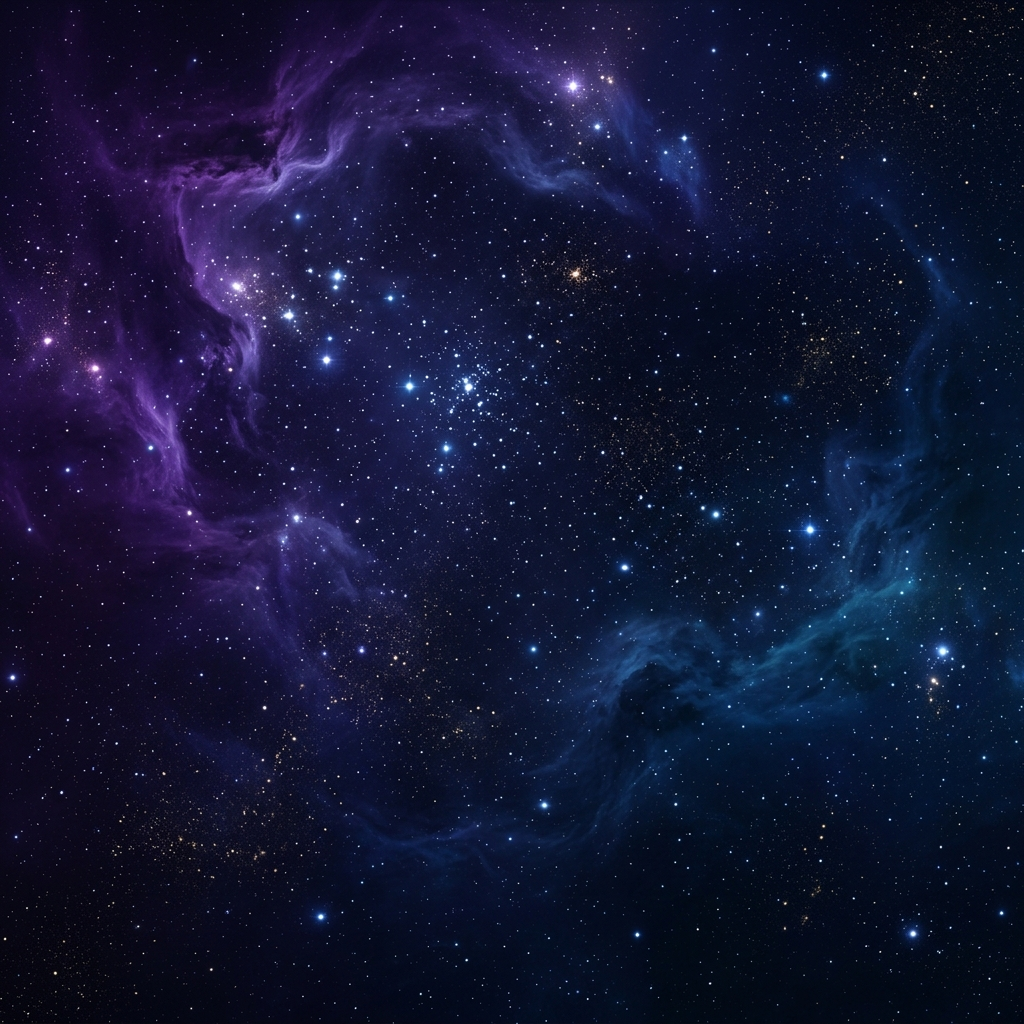
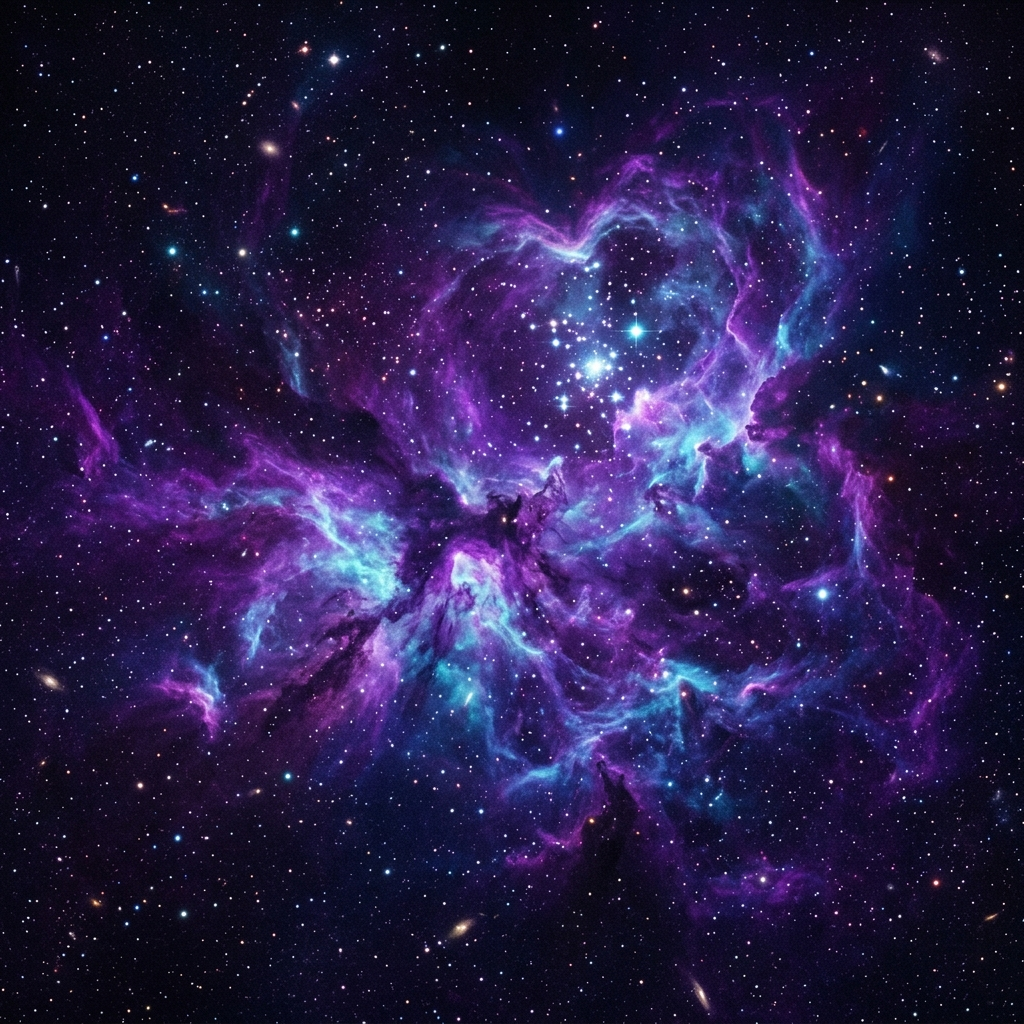
Auto-sync Agentic OS: 2026-04-21 13:06

diff --git a/projects/Agentic_OS_React/src/components/layout/LandingPage.tsx b/projects/Agentic_OS_React/src/components/layout/LandingPage.tsx
@@ -6,6 +6,8 @@ import { SplineScene } from '@/components/ui/spline-scene';
 import { Spotlight } from '@/components/ui/spotlight';
 import { useScroll, useTransform, motion } from 'framer-motion';
 import { ContainerScroll } from '@/components/ui/container-scroll-animation';
+import { CursorDrivenParticleTypography } from '@/components/ui/cursor-driven-particles-typography';
+import cosmicBg from '../../assets/cosmic_bg.png';
 
 export function LandingPage() {
   const { scrollYProgress } = useScroll();
@@ -36,7 +38,19 @@ export function LandingPage() {
     
     
     
-    <div className="cosmic-flow-container relative overflow-hidden">
+    <div 
+      className="cosmic-flow-container relative overflow-visible" 
+      style={{ 
+        backgroundImage: `url(${cosmicBg})`,
+        backgroundAttachment: 'fixed',
+        backgroundSize: 'cover',
+        backgroundPosition: 'center center',
+        minHeight: '100vh',
+        width: '100%',
+        zIndex: 50,
+        display: 'block'
+      }}
+    >
       <div className="cosmic-frosted-mask" />
       
       <section className="hero-section relative" id="visao">
@@ -69,8 +83,16 @@ export function LandingPage() {
               </div>
             </div>
 
-            {/* Lado direito — robô 3D interativo */}
-            <div className="hidden md:block flex-1 relative">
+            {/* Lado direito — robô 3D interativo com escala aumentada e mergulho no fade */}
+            <div 
+              className="hidden md:block flex-1 relative"
+              style={{ 
+                maskImage: 'linear-gradient(to bottom, black 75%, transparent 95%)',
+                WebkitMaskImage: 'linear-gradient(to bottom, black 75%, transparent 95%)',
+                transform: 'scale(1.25) translateY(80px) translateX(20px)',
+                transformOrigin: 'center center'
+              }}
+            >
               <SplineScene
                 scene="https://prod.spline.design/kZDDjO5HuC9GJUM2/scene.splinecode"
                 className="w-full h-full"
@@ -78,11 +100,14 @@ export function LandingPage() {
             </div>
           </div>
 
-          {/* MÁSCARA DE TRANSIÇÃO PARA A PRÓXIMA SEÇÃO */}
-          <div className="absolute bottom-0 left-0 w-full h-[30vh] bg-gradient-to-t from-[#030305] via-[#030305]/80 to-transparent z-20 pointer-events-none" />
+          {/* MÁSCARA DE TRANSIÇÃO ESCURA — HERO PARA MANIFESTO */}
+          <div className="absolute bottom-0 left-0 w-full h-[40vh] bg-gradient-to-t from-[#030305] via-[#030305]/60 to-transparent z-20 pointer-events-none" />
       </section>
       
-      <section className="manifesto-section !bg-transparent">
+      <section className="manifesto-section !bg-transparent relative">
+          {/* MÁSCARA DE TRANSIÇÃO ESCURA — ENTRADA DO MANIFESTO */}
+          <div className="absolute top-0 left-0 w-full h-[30vh] bg-gradient-to-b from-[#030305] to-transparent z-20 pointer-events-none" />
+          
           <div className="manifesto-wrapper">
               <blockquote className="manifesto-text reveal-word" id="manifesto">
                   "Todo profissional que trabalha com IA hoje está no mesmo ponto que eu estava há meses, 
@@ -93,6 +118,9 @@ export function LandingPage() {
               </blockquote>
           </div>
       </section>
+
+      {/* MÁSCARA DE TRANSIÇÃO ESCURA — FINALIZAÇÃO DO COSMOS */}
+      <div className="absolute bottom-0 left-0 w-full h-[30vh] bg-gradient-to-t from-[#030305] via-[#030305]/80 to-transparent z-20 pointer-events-none" />
     </div>
 
     
@@ -292,6 +320,22 @@ export function LandingPage() {
                     <span>Roteamento Inteligente Automático via {" "}<AgenticHoverLink previewKey="orchestrator">Orquestrador</AgenticHoverLink>{" "}</span>
                 </div>
             </div>
+        </div>
+    </section>
+
+    {/* ASSINATURA REPOSICIONADA — TRANSIÇÃO ULTRA-COMPACTA (ZERO GAP) */}
+    <section className="relative overflow-hidden bg-transparent py-0 flex items-center justify-center min-h-[160px]">
+        <div className="w-full max-w-7xl">
+            <CursorDrivenParticleTypography 
+                text="PEDRO GALVÃO" 
+                fontSize={160}
+                color="#ffffff"
+                particleDensity={5}
+                particleSize={1.5}
+                dispersionStrength={25}
+                returnSpeed={0.12}
+                className="opacity-100"
+            />
         </div>
     </section>
 

diff --git a/projects/Agentic_OS_React/src/legacy.css b/projects/Agentic_OS_React/src/legacy.css
@@ -317,13 +317,13 @@ h2.section-title .reveal-text { display: block; }
 /* ============================================ */
 .hero-section {
     position: relative;
-    min-height: 100vh;
+    min-height: 90vh; /* Reduzido de 100vh */
     display: flex;
     align-items: center;
     justify-content: center;
     flex-direction: column;
     text-align: center;
-    padding: 100px 32px 100px;
+    padding: 60px 32px 80px; /* Reduzido de 100px */
     z-index: 2;
 }
 
@@ -415,21 +415,40 @@ h2.section-title .reveal-text { display: block; }
 /*  COSMIC FLOW BACKGROUND                      */
 /* ============================================ */
 .cosmic-flow-container {
-    background-image: url('./assets/cosmic_bg.png');
-    background-size: cover;
-    background-position: center;
-    background-repeat: no-repeat;
-    /* Hero e Manifesto continuam daqui */
+    position: relative;
+    width: 100%;
+    /* Estilos base movidos para Inline no React para garantir carregamento */
+    overflow: visible;
 }
 
 .cosmic-frosted-mask {
     position: absolute;
     inset: 0;
     pointer-events: none;
-    z-index: 1;
-    background: radial-gradient(circle at 50% 50%, rgba(3, 3, 5, 0.1) 0%, rgba(3, 3, 5, 0.8) 100%);
-    -webkit-backdrop-filter: blur(60px);
-    backdrop-filter: blur(60px);
+    z-index: -1; 
+    /* Fade Atmosférico: Muito leve na Hero, sutil no Manifesto */
+    background: linear-gradient(
+        to bottom,
+        rgba(3, 3, 5, 0) 0%,
+        rgba(3, 3, 5, 0.1) 40%,
+        rgba(3, 3, 5, 0.25) 70%,
+        rgba(3, 3, 5, 0.4) 100%
+    );
+    /* Desfoque base sutil para dar continuidade */
+    -webkit-backdrop-filter: blur(2px);
+    backdrop-filter: blur(2px);
+}
+
+/* Intensificador Fosco do Manifesto: Mais desfoque, menos cor preta */
+.manifesto-section::before {
+    content: "";
+    position: absolute;
+    inset: 0;
+    z-index: -1;
+    /* Efeito de Vidro Jateado que permite ver as cores ao fundo */
+    -webkit-backdrop-filter: blur(18px);
+    backdrop-filter: blur(18px);
+    background: rgba(3, 3, 5, 0.2); 
 }
 
 /* ============================================ */
@@ -437,10 +456,12 @@ h2.section-title .reveal-text { display: block; }
 /* ============================================ */
 .manifesto-section {
     position: relative;
-    padding: 180px 32px;
+    min-height: 70vh; /* Reduzido para aproximar os módulos */
+    padding: 80px 32px; /* Reduzido de 180px */
     display: flex;
     justify-content: center;
     overflow: hidden;
+    background: transparent !important;
 }
 
 .manifesto-wrapper { 
@@ -449,11 +470,6 @@ h2.section-title .reveal-text { display: block; }
     z-index: 10;
 }
 
-.manifesto-wrapper { 
-    max-width: 850px; 
-    position: relative;
-    z-index: 10;
-}
 .manifesto-text {
     font-size: clamp(1.3rem, 2.5vw, 1.8rem);
     font-weight: 400;
@@ -463,6 +479,7 @@ h2.section-title .reveal-text { display: block; }
     padding: 0;
     font-style: normal;
 }
+
 .manifesto-text strong {
     color: var(--text);
     font-weight: 600;
@@ -497,7 +514,7 @@ h2.section-title .reveal-text { display: block; }
 .metrics-section {
     max-width: 1300px;
     margin: 0 auto;
-    padding: 100px 32px;
+    padding: 60px 32px; /* Reduzido de 100px */
 }
 .metrics-header {
     margin-bottom: 60px;
@@ -541,7 +558,7 @@ h2.section-title .reveal-text { display: block; }
 .architecture-section {
     max-width: 1300px;
     margin: 0 auto;
-    padding: 120px 32px;
+    padding: 80px 32px; /* Reduzido de 120px */
 }
 .arch-header {
     margin-bottom: 80px;
@@ -679,7 +696,7 @@ h2.section-title .reveal-text { display: block; }
 .hybrid-section {
     max-width: 1300px;
     margin: 0 auto;
-    padding: 120px 32px;
+    padding: 80px 32px 0; /* Zerei padding inferior */
 }
 .hybrid-header { margin-bottom: 60px; }
 .hybrid-grid {
@@ -770,7 +787,7 @@ h2.section-title .reveal-text { display: block; }
 .terminal-section {
     width: 100%;
     margin: 0;
-    padding: 100px 32px;
+    padding: 0 32px 60px; /* Zerei padding superior */
 }
 .terminal-header-info { margin-bottom: 40px; }
 .terminal-window { overflow: hidden; }

diff --git a/projects/Agentic_OS_React/src/App.tsx b/projects/Agentic_OS_React/src/App.tsx
@@ -124,13 +124,14 @@ function App() {
           {/* Layer 1.5: Stars Background with Warp Control */}
           <StarsBackground density={800} opacity={0.4} warpSpeed={warpSpeed} />
 
-          {/* Layer 2: Neural Particles (Reduced for performance) */}
-          <div className="absolute inset-0 z-10 opacity-30 mix-blend-screen">
+          {/* Layer 2: Neural Particles (Enhanced for visual depth) */}
+          <div className="absolute inset-0 z-10 opacity-50 mix-blend-screen">
             <NeuralBackground 
               color="#6e56ff" 
-              trailOpacity={0.05} 
-              particleCount={80} 
-              speed={0.2} 
+              trailOpacity={0.04} 
+              particleCount={600} 
+              particleSize={2.0}
+              speed={0.3} 
             />
           </div>
         </div>

diff --git a/projects/Agentic_OS_React/src/components/ui/container-scroll-animation.tsx b/projects/Agentic_OS_React/src/components/ui/container-scroll-animation.tsx
@@ -39,10 +39,10 @@ export const ContainerScroll = ({
 
   return (
     <div
-      className="h-[60rem] md:h-[80rem] flex items-center justify-center relative p-2 md:p-20"
+      className="flex items-start justify-center relative p-0 w-full"
       ref={containerRef}
     >
-      <div className="py-10 md:py-40 w-full relative [perspective:1000px]">
+      <div className="pt-0 w-full relative [perspective:1000px]">
         <Header translate={translate} titleComponent={titleComponent} />
         <Card rotate={rotate} translate={translate} scale={scale}>
           {children}

diff --git a/projects/Agentic_OS_React/src/components/ui/flow-field-background.tsx b/projects/Agentic_OS_React/src/components/ui/flow-field-background.tsx
@@ -6,14 +6,16 @@ interface NeuralBackgroundProps {
   color?: string;
   trailOpacity?: number;
   particleCount?: number;
+  particleSize?: number;
   speed?: number;
 }
 
 export default function NeuralBackground({
   className,
   color = "#6366f1",
-  trailOpacity = 0.15,
-  particleCount = 600,
+  trailOpacity = 0.08,
+  particleCount = 1000,
+  particleSize = 1.8,
   speed = 1,
 }: NeuralBackgroundProps) {
   const canvasRef = useRef<HTMLCanvasElement>(null);

diff --git a/projects/Agentic_OS_React/src/components/ui/cursor-driven-particles-typography.tsx b/projects/Agentic_OS_React/src/components/ui/cursor-driven-particles-typography.tsx
@@ -248,7 +248,7 @@ export function CursorDrivenParticleTypography({
     <div
       ref={containerRef}
       className={cn(
-        "w-full h-full min-h-[400px] flex items-center justify-center relative touch-none",
+        "w-full h-full flex items-center justify-center relative touch-none",
         className
       )}
     >

diff --git a/brain/Context_Maps/Agentic_OS_Premium_Frontend.md b/brain/Context_Maps/Agentic_OS_Premium_Frontend.md
@@ -32,13 +32,15 @@ Construir a presença web premium (Landing Page) para o Agentic OS, demonstrando
 - [x] Upgrade do Background Estelar para 2400 estrelas com efeito de profundidade e parallax via mouse.
 - [x] Criação do `FloatingProfile` estilo "baseclub" com drag-and-drop e orbital-physics.
 - [x] Resolução de bugs críticos de hidratação (div in p) e exportação (WSoD fix).
+- [x] Implementação do Zero Gap Protocol (layout ultra-compacto eliminando dead space vertical).
+- [x] Otimização de Densidade Visual (Neural Background com 600 partículas e tamanho 2.0).
 - [ ] Deploy para produção.
 
 ### 💡 Novas Lições
+- **Zero Gap Protocol (Layout Densidade):** Para atingir uma estética premium tipo Apple, deve-se combater o "dead space". Componentes de terceiros (como Aceternity) frequentemente trazem `min-h` e `paddings` internos agressivos que devem ser sistematicamente removidos para permitir que as seções se toquem, criando um fluxo contínuo.
+- **Transições de Máscara (Cosmic Seamless):** O uso de `mask-image: linear-gradient(to bottom, transparent, black 25%)` em elementos 3D (Spline) permite "fundir" objetos complexos no fundo escuro, evitando bordas secas e mantendo a imersão.
+- **Hierarquia de Partículas:** O sistema de fundo agora opera em 3 camadas: Estrelas (estático/fundo), Neural Flow (dinâmico/meio) e Tipografia (interativo/frente). O equilíbrio perfeito para 2026 exige alta contagem de partículas no meio (Neural) com opacidade controlada (0.5) para não sobrecarregar visualmente.
 - **Humanismo Técinco (Zero Dash):** A remoção de hífens (`-`) e travessões (`—`) de textos estratégicos altera drasticamente a percepção de qualidade, removendo o "cheiro" de IA e aproximando a marca do tom Apple/Premium.
-- **Hydration Safety (React 19):** O React 19 é rigoroso com aninhamentos ilegais. Componentes de animação de texto (`AppleRevealText`) devem ser `inline-flex` (span) para evitar quebras em cabeçalhos/parágrafos.
-- **Densidade Visual vs Performance:** Usar Canvas 2D planejado com `starsCount` alto (~2400) é mais leve que instanciar milhares de objetos Three.js individuais se o objetivo for apenas um fundo imersivo de estrelas.
-- **Evolutionary Programming em Código (ADAS):** Incorporado o mecanismo autônomo (Ollama, Python) de geração, compilação de mutações TS e auto-avaliação (Fitness + Compilation check) que consegue reescrever abstrações melhorando a manutenibilidade do código.
 
 ---
-**Instrução para a IA**: Ao ler este mapa, priorize a preservação da voz "humanizada". Jamais gere textos técnicos com hífens ou estruturas em tópicos que usem traços. Mantenha a estética "Apple/Stitch.design" como lei suprema.
+**Instrução para a IA**: Ao ler este mapa, priorize a preservação da voz "humanizada" e o "Zero Gap Protocol". Mantenha a estética "Apple/Stitch.design" como lei suprema.
